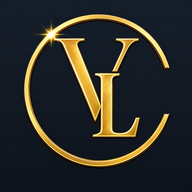
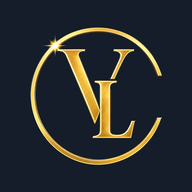
Иконка: знак центрируется и получает поля, фон плоский
На плитке знак занимал 80% и сидел выше центра (поле 90 сверху против 165 снизу), а фон
исходника — диагональный градиент: на скруглённой плитке это читалось как перекос.
Генератор теперь находит границы знака, вписывает его по центру на 72% стороны и кладёт
на плоский фон из угла исходника. Один markAlpha на все платформы.

Changed region(s): [[0.0938, 0.0625, 0.9062, 0.9062]]

diff --git a/app/scripts/gen-icons.js b/app/scripts/gen-icons.js
@@ -36,13 +36,49 @@ async function main() {
         `Дай SVG (app/assets/icon-source.svg) или PNG 1024×1024+.`);
     }
   }
-  // density высокий — чтобы вектор растеризовался резко под 1024.
-  const buf = await sharp(SRC, isSvg ? { density: 512 } : undefined)
-    .trim()                                          // срезаем прозрачные поля → логотип на всю плитку
-    .resize(1024, 1024, { fit: 'cover', kernel: 'lanczos3' })
-    .flatten({ background: BG })
-    .png({ compressionLevel: 9, effort: 10 })
-    .toBuffer();
+  // ── Нормализация мастера ───────────────────────────────────────────────
+  // Знак в исходнике занимает ~80% плитки и сидит выше центра (поля 90 сверху / 165 снизу) —
+  // на домашнем экране это читается как «круг задран кверху и упирается в края».
+  // Поэтому знак вырезаем по яркости, находим его реальные границы и вписываем В ЦЕНТР
+  // квадрата с полями: SIGN_RATIO — доля стороны, которую занимает знак. 2026-09-04.
+  const SIGN_RATIO = 0.72;   // 72% — знак крупный, но с воздухом; iOS/Android скругляют углы
+  const LO = 45, HI = 90;    // порог яркости: фон тёмный, золото яркое
+
+  const srcMeta = await sharp(SRC, isSvg ? { density: 512 } : undefined).metadata();
+  const SQ = Math.min(srcMeta.width, srcMeta.height);
+  const flatRaw = await sharp(SRC, isSvg ? { density: 512 } : undefined)
+    .resize(SQ, SQ, { fit: 'cover', kernel: 'lanczos3' }).removeAlpha().raw().toBuffer();
+  const rgbaAll = Buffer.alloc(SQ * SQ * 4);
+  let minX = SQ, maxX = -1, minY = SQ, maxY = -1;
+  for (let i = 0, j = 0, px = 0; i < flatRaw.length; i += 3, j += 4, px++) {
+    const lum = 0.299 * flatRaw[i] + 0.587 * flatRaw[i + 1] + 0.114 * flatRaw[i + 2];
+    const a = Math.max(0, Math.min(255, Math.round((lum - LO) / (HI - LO) * 255)));
+    rgbaAll[j] = flatRaw[i]; rgbaAll[j + 1] = flatRaw[i + 1]; rgbaAll[j + 2] = flatRaw[i + 2]; rgbaAll[j + 3] = a;
+    if (lum > 70) { const x = px % SQ, y = (px / SQ) | 0;
+      if (x < minX) minX = x; if (x > maxX) maxX = x; if (y < minY) minY = y; if (y > maxY) maxY = y; }
+  }
+  const signW = maxX - minX + 1, signH = maxY - minY + 1;
+  console.log(`  · знак в исходнике: ${signW}×${signH} (${Math.round(signW / SQ * 100)}% ширины), центрирую`);
+
+  // знак без фона, обрезанный по своим границам
+  const markCrop = await sharp(rgbaAll, { raw: { width: SQ, height: SQ, channels: 4 } })
+    .extract({ left: minX, top: minY, width: signW, height: signH }).png().toBuffer();
+
+  // фон берём сырым пикселем из угла: sharp.stats() считает по всему кадру и .extract() игнорирует
+  const corner = await sharp(SRC, isSvg ? { density: 512 } : undefined)
+    .extract({ left: 4, top: 4, width: 2, height: 2 }).removeAlpha().raw().toBuffer();
+  const BG_SRC = { r: corner[0], g: corner[1], b: corner[2] };
+
+  const markAlpha = await sharp({ create: { width: 1024, height: 1024, channels: 4, background: { r: 0, g: 0, b: 0, alpha: 0 } } })
+    .composite([{ input: await sharp(markCrop).resize(Math.round(1024 * SIGN_RATIO), Math.round(1024 * SIGN_RATIO),
+      { fit: 'contain', background: { r: 0, g: 0, b: 0, alpha: 0 } }).png().toBuffer(), gravity: 'centre' }])
+    .png().toBuffer();
+  fs.writeFileSync(path.join(APP, 'assets', 'icon-mark-alpha.png'), markAlpha);
+
+  // опаковый мастер: знак по центру на фирменном фоне
+  const buf = await sharp({ create: { width: 1024, height: 1024, channels: 3, background: BG_SRC } })
+    .composite([{ input: markAlpha, gravity: 'centre' }])
+    .png({ compressionLevel: 9, effort: 10 }).toBuffer();
 
   fs.writeFileSync(PREVIEW, buf);
   console.log('✓ app/assets/icon-1024.png (опаковый мастер 1024×1024)');
@@ -75,24 +111,10 @@ async function main() {
   // ужимаем до 66% канвы: система обрезает края маской (круг/сквиркл). 2026-09-04.
   const ANDROID_RES = path.join(APP, 'android/app/src/main/res');
   if (fs.existsSync(ANDROID_RES)) {
-    // Цвет берём из ИСХОДНИКА, а не из buf: buf уже прошёл .trim()+cover, и его угол — не фон.
-    // Читаем СЫРОЙ пиксель: sharp.stats() считает по всему кадру и вырез .extract() игнорирует.
-    const corner = await sharp(SRC, isSvg ? { density: 512 } : undefined)
-      .extract({ left: 4, top: 4, width: 2, height: 2 }).removeAlpha().raw().toBuffer();
-    const [r, g, b] = [corner[0], corner[1], corner[2]];
+    const { r, g, b } = BG_SRC;
     const hex = '#' + [r, g, b].map(v => v.toString(16).padStart(2, '0')).join('').toUpperCase();
     const DPI = { mdpi: 48, hdpi: 72, xhdpi: 96, xxhdpi: 144, xxxhdpi: 192 };
-    // Вырезаем знак из мастера: фон тёмный, золото яркое → альфа по яркости с мягким краем.
-    const MASTER = 1024, LO = 45, HI = 90;
-    const flat = await sharp(buf).resize(MASTER, MASTER, { kernel: 'lanczos3' }).removeAlpha().raw().toBuffer();
-    const rgba = Buffer.alloc(MASTER * MASTER * 4);
-    for (let i = 0, j = 0; i < flat.length; i += 3, j += 4) {
-      const lum = 0.299 * flat[i] + 0.587 * flat[i + 1] + 0.114 * flat[i + 2];
-      rgba[j] = flat[i]; rgba[j + 1] = flat[i + 1]; rgba[j + 2] = flat[i + 2];
-      rgba[j + 3] = Math.max(0, Math.min(255, Math.round((lum - LO) / (HI - LO) * 255)));
-    }
-    const markAlpha = await sharp(rgba, { raw: { width: MASTER, height: MASTER, channels: 4 } }).png().toBuffer();
-    fs.writeFileSync(path.join(APP, 'assets', 'icon-mark-alpha.png'), markAlpha);
+    // markAlpha (знак без фона, по центру) готовится выше — один источник на все платформы.
     for (const [dpi, size] of Object.entries(DPI)) {
       const dir = path.join(ANDROID_RES, 'mipmap-' + dpi);
       if (!fs.existsSync(dir)) continue;
